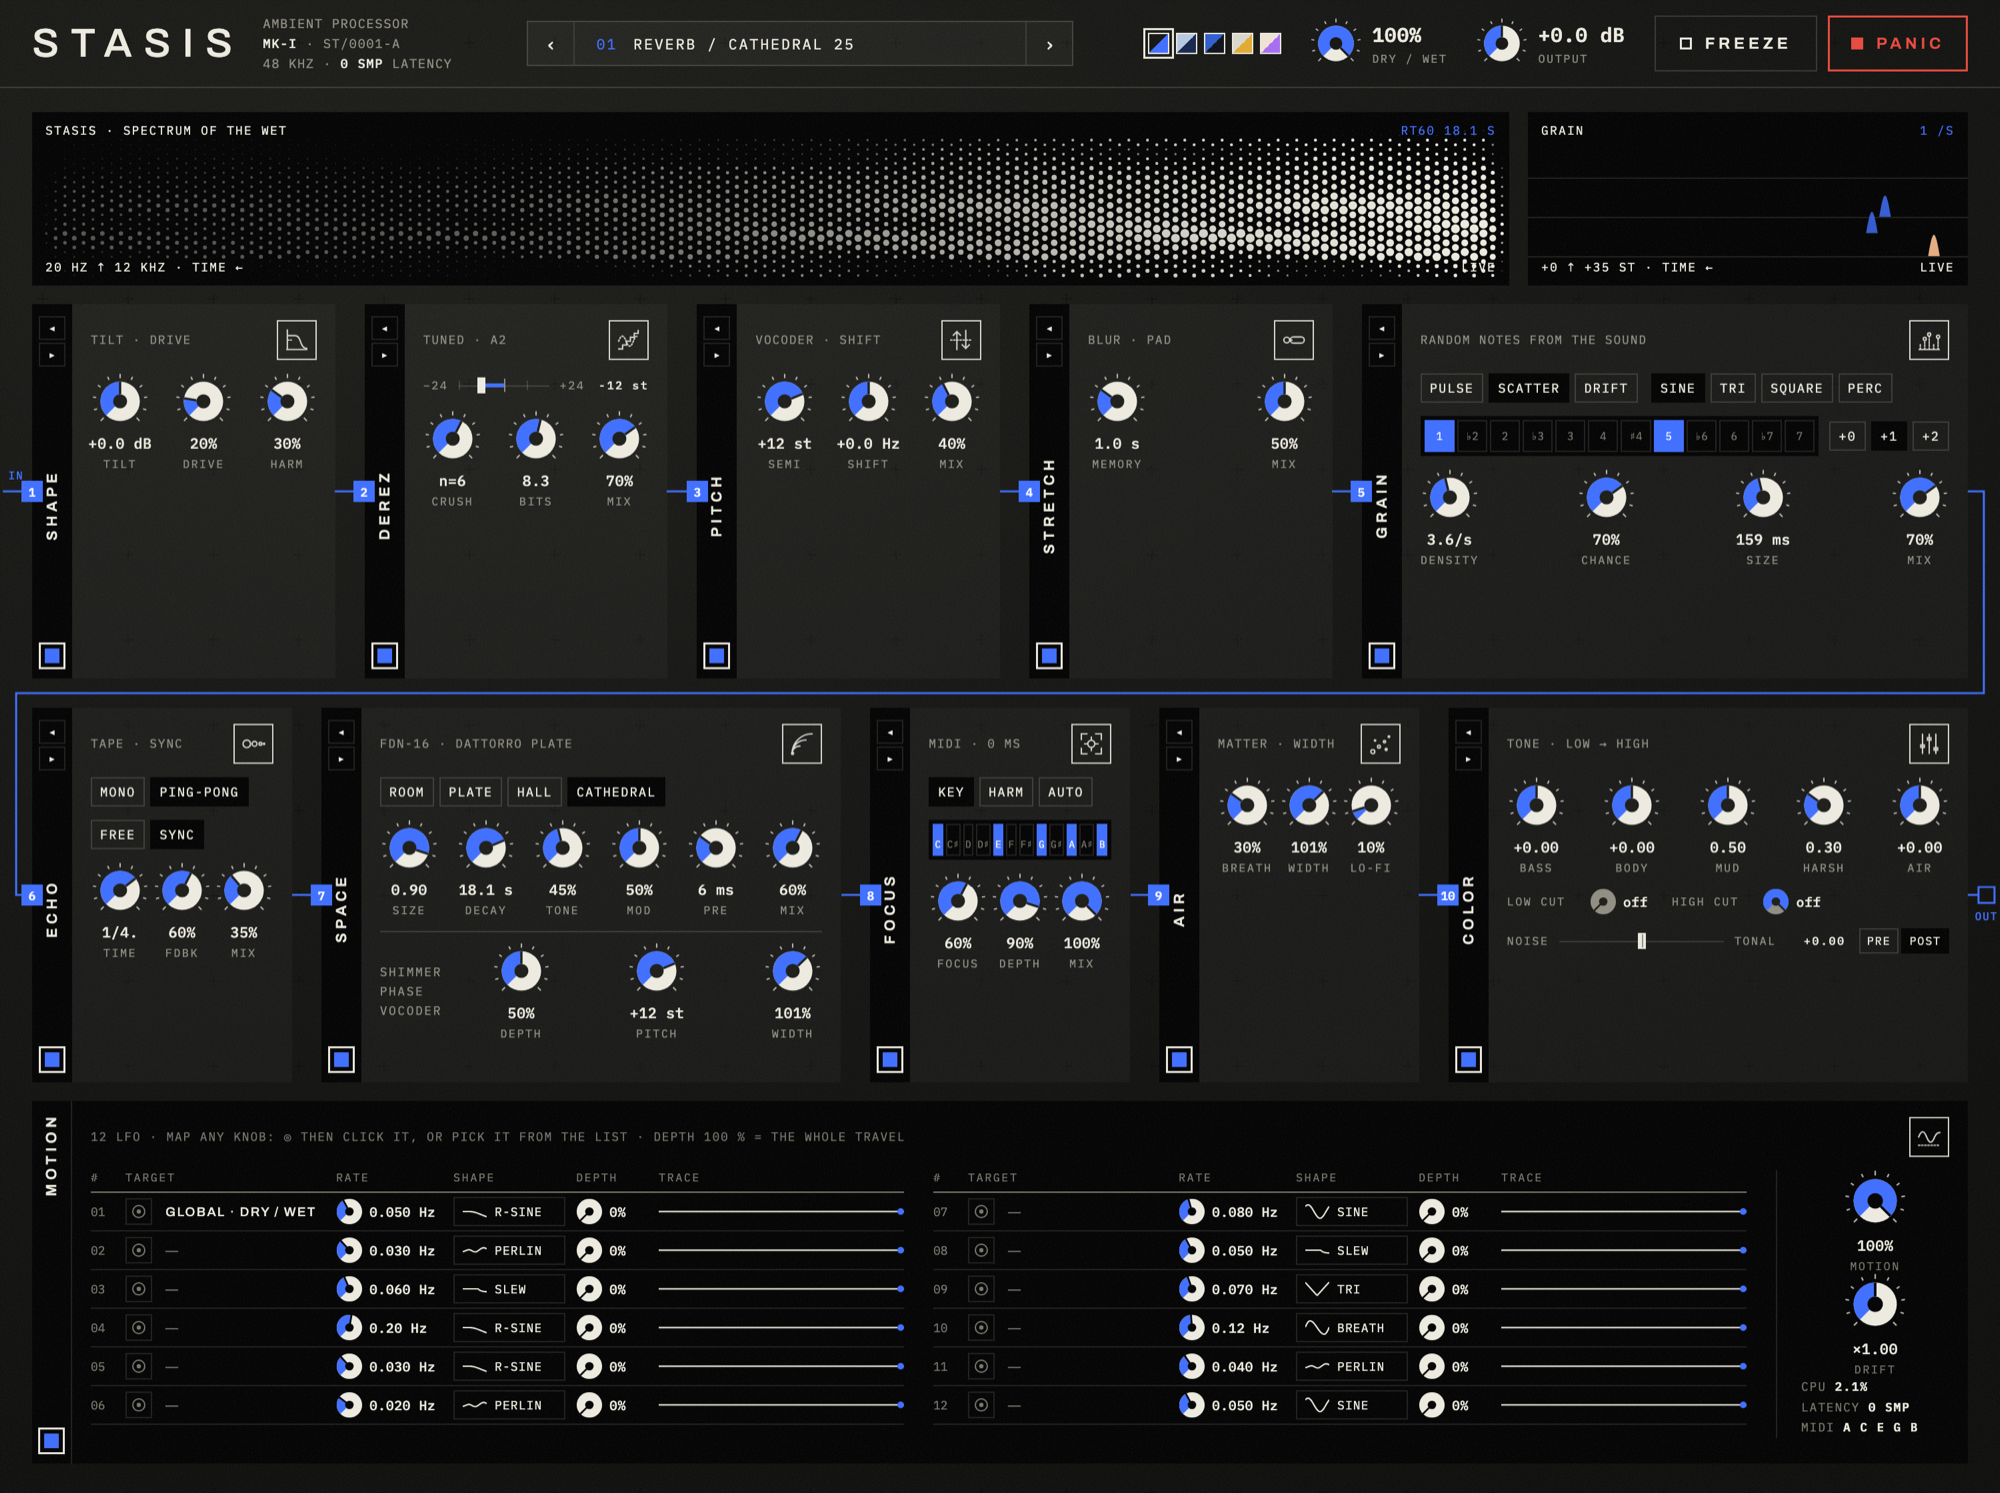
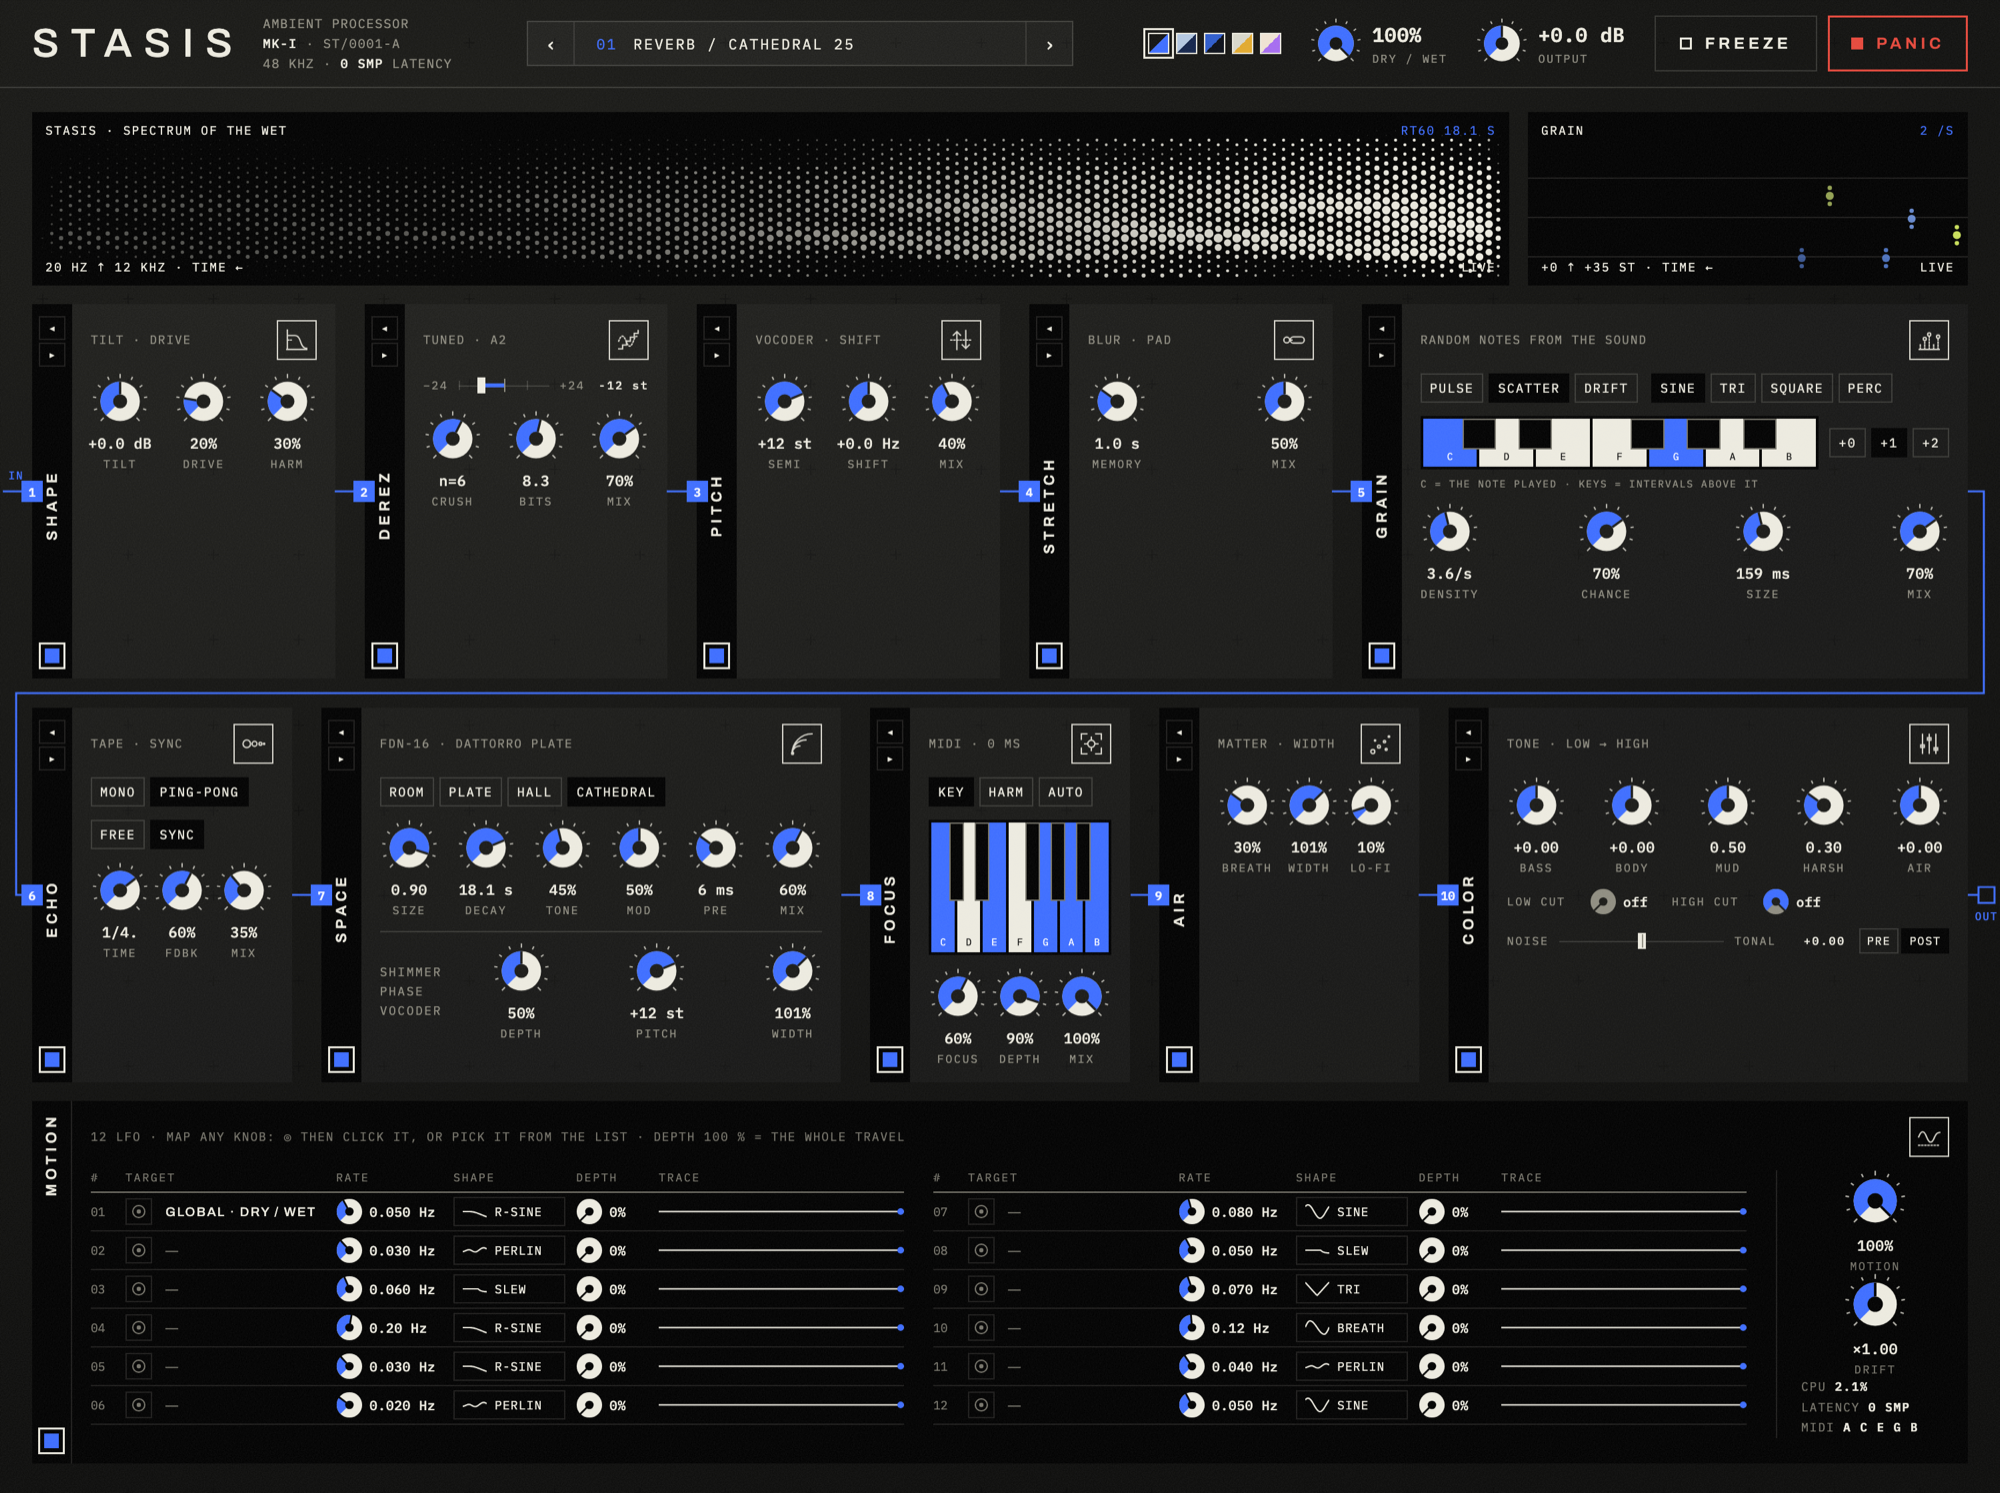
Piano keyboards for GRAIN and FOCUS, halftone colour grain view
- Reusable one-octave piano (white and black keys); GRAIN's allowed
  intervals (C = the note played) and FOCUS's followed notes use it
- Grain view: staggered halftone dots swelling with each grain's
  envelope, one colour per note

diff --git a/design/mockup.html b/design/mockup.html
@@ -189,8 +189,7 @@ header { display: grid; grid-template-columns: auto 1fr auto; align-items: cente
 /* GRAIN */
 .grain-modes { display: flex; gap: 10px; flex-wrap: wrap; }
 .grain-notes { display: grid; grid-template-columns: 1fr auto; gap: 8px; align-items: center; }
-.grain-notes .keys button { height: 24px; background: none; border: 1px solid var(--dark-line); color: var(--on-dark-muted); font: inherit; font-size: 8px; cursor: pointer; padding: 0; }
-.grain-notes .keys button[aria-pressed="true"] { background: var(--accent); color: var(--accent-ink); border-color: var(--accent); }
+.piano-caption { font-size: 7.5px; letter-spacing: .12em; color: var(--muted); margin-top: -4px; }
 .viz canvas { width: 100%; height: 100%; display: block; }
 .viz .hud { position: absolute; inset: 0; pointer-events: none; padding: 8px 10px; display: flex; flex-direction: column; justify-content: space-between; color: var(--on-dark); }
 .viz .hud div { display: flex; justify-content: space-between; font-size: 9px; font-weight: 400; letter-spacing: .12em; }
@@ -199,9 +198,16 @@ header { display: grid; grid-template-columns: auto 1fr auto; align-items: cente
 .sub .title { display: flex; justify-content: space-between; font-size: 9px; font-weight: 400; letter-spacing: .14em; color: var(--muted); }
 
 /* FOCUS keys */
-.keys { display: grid; grid-template-columns: repeat(12, 1fr); gap: 2px; background: var(--dark); padding: 3px; }
-.keys div { height: 24px; display: flex; align-items: flex-end; justify-content: center; font-size: 7.5px; padding-bottom: 3px; color: var(--on-dark-muted); border: 1px solid var(--dark-line); }
-.keys div.on { background: var(--accent); color: var(--accent-ink); border-color: var(--accent); }
+/* Piano octave: 7 white keys, 5 black keys on top. .on = lit (accent). */
+.piano { position: relative; height: 40px; display: flex; gap: 2px; padding: 2px; background: var(--dark); flex: 1; min-width: 0; }
+.piano .w { flex: 1; background: var(--on-dark); color: var(--dark); border: 0; display: flex; align-items: flex-end; justify-content: center;
+  font: inherit; font-size: 7.5px; padding: 0 0 3px; }
+.piano .b { position: absolute; top: 2px; height: 58%; width: calc((100% - 4px) / 7 * .6); background: var(--dark); border: 1px solid var(--on-dark-muted);
+  color: var(--on-dark-muted); font: inherit; font-size: 6.5px; display: flex; align-items: flex-end; justify-content: center; padding: 0 0 2px; z-index: 1; }
+.piano .w.on, .piano .b.on { background: var(--accent); color: var(--accent-ink); border-color: var(--accent); }
+.piano.clickable .w, .piano.clickable .b { cursor: pointer; }
+.piano.clickable .w:hover { background: color-mix(in srgb, var(--on-dark) 80%, var(--accent)); }
+.piano.clickable .w.on:hover { background: var(--accent); }
 
 /* DEREZ interval strip */
 .intervals { display: grid; grid-template-columns: repeat(5, 1fr); background: var(--dark); color: var(--on-dark); border: 1px solid var(--dark-line); }
@@ -405,7 +411,8 @@ const live = {
   status(s) {
     const names = ['C', 'C♯', 'D', 'D♯', 'E', 'F', 'F♯', 'G', 'G♯', 'A', 'A♯', 'B'];
     const on = names.filter((_, i) => s.classes & (1 << i));
-    document.querySelectorAll('.keys div').forEach((d, i) => d.classList.toggle('on', !!(s.classes & (1 << i))));
+    const fk = document.getElementById('focusKeys');
+    if (fk) for (let i = 0; i < 12; i++) fk.light(i, s.classes & (1 << i));
     const st = document.getElementById('status');
     if (st) st.innerHTML = `CPU <b>${s.cpu.toFixed(1)}%</b><br>LATENCY <b>0 SMP</b><br>MIDI <b>${on.join(' ') || '—'}</b>`;
     const sr = document.getElementById('srate');
@@ -518,6 +525,27 @@ function tonalRow() {
   el.append(cursor('NOISE', 'TONAL', 0, 'tonal'), where);
   return el;
 }
+// One octave of piano keys, C to B. labels: 12 strings; onToggle(i) makes it clickable.
+// Returns the element; el.light(i, on) lights a key.
+function piano(labels, onToggle) {
+  const el = document.createElement('div'); el.className = 'piano' + (onToggle ? ' clickable' : '');
+  const BLACK = { 1: 0, 3: 1, 6: 3, 8: 4, 10: 5 };  // black key → the white key it sits after
+  const keys = [];
+  for (let i = 0; i < 12; i++) {
+    const k = document.createElement(onToggle ? 'button' : 'div');
+    k.textContent = labels[i];
+    if (i in BLACK) { k.className = 'b'; k.style.left = `calc(2px + (100% - 4px) / 7 * ${BLACK[i] + 1} - (100% - 4px) / 7 * .3)`; }
+    else k.className = 'w';
+    if (onToggle) k.onclick = () => onToggle(i);
+    keys.push(k);
+  }
+  keys.filter(k => k.className === 'w').forEach(k => el.append(k));
+  keys.filter(k => k.className === 'b').forEach(k => el.append(k));
+  el.light = (i, on) => keys[i].classList.toggle('on', !!on);
+  return el;
+}
+const NOTE_NAMES = ['C', 'C♯', 'D', 'D♯', 'E', 'F', 'F♯', 'G', 'G♯', 'A', 'A♯', 'B'];
+
 function knobRow(list, opts) { const row = document.createElement('div'); row.className = 'knobs'; list.forEach(k => row.appendChild(knob(k, opts))); return row; }
 
 // ---------- live state driving the visual ----------
@@ -548,17 +576,16 @@ const MODS = {
             modes.append(seg(['Pulse', 'Scatter', 'Drift'], 1, null, 'grain_algo'), seg(['Sine', 'Tri', 'Square', 'Perc'], 0, null, 'grain_env'));
             // Allowed intervals above the source; the octave choice widens the range.
             const notes = document.createElement('div'); notes.className = 'grain-notes';
-            const keys = document.createElement('div'); keys.className = 'keys';
-            ['1', '♭2', '2', '♭3', '3', '4', '♯4', '5', '♭6', '6', '♭7', '7'].forEach((label, i) => {
-              const k = document.createElement('button'); k.textContent = label; k.title = `+${i} semitones`;
-              let on = i === 0 || i === 7;
-              const show = v => { on = !!v; k.setAttribute('aria-pressed', on); };
-              k.onclick = () => { show(!on); bridge.send('grain_n' + i, on); };
-              bridge.register('grain_n' + i, 'toggle', show); show(on);
-              keys.append(k);
+            // C = the note being played (unison), G = a fifth above, and so on.
+            const state = Array.from({ length: 12 }, (_, i) => i === 0 || i === 7);
+            const keys = piano(NOTE_NAMES.map((n, i) => [1, 3, 6, 8, 10].includes(i) ? '' : n.replace('♯', '')), i => {
+              state[i] = !state[i]; keys.light(i, state[i]); bridge.send('grain_n' + i, state[i]);
             });
+            state.forEach((on, i) => { keys.light(i, on); bridge.register('grain_n' + i, 'toggle', v => { state[i] = !!v; keys.light(i, state[i]); }); });
             notes.append(keys, seg(['+0', '+1', '+2'], 1, null, 'grain_octaves'));
-            b.append(modes, notes, knobRow([
+            const caption = document.createElement('div'); caption.className = 'piano-caption';
+            caption.textContent = 'C = THE NOTE PLAYED · KEYS = INTERVALS ABOVE IT';
+            b.append(modes, notes, caption, knobRow([
               { id: 'grain_density', l: 'Density', t: .45, f: t => (0.5 * Math.pow(80, t)).toFixed(1) + '/s' },
               { id: 'grain_chance', l: 'Chance', t: .7, f: pct },
               { id: 'grain_size', l: 'Size', t: .45, f: t => Math.round(20 * Math.pow(100, t)) + ' ms' },
@@ -576,9 +603,10 @@ const MODS = {
             const sync = seg(['Free', 'Sync'], 1, i => { const next = knobs(i === 1); row.replaceWith(next); row = next; }, 'echo_sync');
             b.append(modes, sync, row); } },
   focus:  { n: '07', name: 'FOCUS',   code: 'MIDI · 0 ms', build: b => {
-            const keys = document.createElement('div'); keys.className = 'keys';
-            ['C','C#','D','D#','E','F','F#','G','G#','A','A#','B'].forEach(k => { const d = document.createElement('div'); d.textContent = k.replace('#', '♯');
-              if (['C','E','G','A','B'].includes(k)) d.classList.add('on'); keys.appendChild(d); });
+            // The notes FOCUS is following (MIDI, or what AUTO hears).
+            const keys = piano(NOTE_NAMES.map(n => n.replace('♯', '')).map((n, i) => [1, 3, 6, 8, 10].includes(i) ? '' : n));
+            keys.id = 'focusKeys';
+            [0, 4, 7, 9, 11].forEach(i => keys.light(i, true));
             b.append(seg(['Key', 'Harm', 'Auto'], 0, null, 'focus_mode'), keys,
                      knobRow([{ id: 'focus_amount', l: 'Focus', t: .6, f: pct }, { id: 'focus_depth', l: 'Depth', t: .9, f: pct }, { id: 'focus_mix', l: 'Mix', t: 1, f: pct }])); } },
   air:    { n: '08', name: 'AIR',     code: 'Matter · width', build: b => b.append(knobRow([
@@ -1114,16 +1142,27 @@ function drawGrains(now) {
   [0, 12, 24].forEach(st => { ctx.beginPath(); ctx.moveTo(0, yOf(st) + .5); ctx.lineTo(W, yOf(st) + .5); ctx.stroke(); });  // octaves
   while (grains.length && now - grains[0].at > GRAIN_WINDOW + 4000) grains.shift();
   let recent = 0;
+  // Same language as the spectrum: round halftone dots on a staggered grid. Each grain
+  // is a short streak of dots swelling with its envelope; its colour is its note.
+  const STEP = 6;
   grains.forEach(g => {
     const age = now - g.at; if (age < 1000) recent++;
-    const w = Math.max(3, g.len * 1000 / GRAIN_WINDOW * W), x1 = W - age / GRAIN_WINDOW * W, x0 = x1 - w, y = yOf(g.st), h = 16;
-    if (x1 < 0) return;
+    const w = Math.max(STEP, g.len * 1000 / GRAIN_WINDOW * W), x1 = W - age / GRAIN_WINDOW * W, x0 = x1 - w, y = yOf(g.st);
+    if (x1 < -STEP) return;
     const shape = p => g.env === 0 ? Math.sin(Math.PI * p) : g.env === 1 ? 1 - Math.abs(2 * p - 1) : g.env === 2 ? 1 : Math.min(1, p / .03) * Math.pow(1 - p, 3);
-    ctx.globalAlpha = Math.max(.25, 1 - age / GRAIN_WINDOW);
-    ctx.fillStyle = Math.abs(g.pan) > .5 ? spark : acc;
-    ctx.beginPath(); ctx.moveTo(x0, y);
-    for (let i = 0; i <= 16; i++) ctx.lineTo(x0 + w * i / 16, y - h * shape(i / 16));
-    ctx.closePath(); ctx.fill();
+    const pc = ((Math.round(g.st) % 12) + 12) % 12;
+    ctx.fillStyle = `hsl(${(pc * 30 + 220) % 360} 70% ${62 + 6 * Math.floor(g.st / 12)}%)`;
+    ctx.globalAlpha = Math.max(.2, 1 - age / GRAIN_WINDOW);
+    for (let c = 0; c * STEP <= w; c++) {
+      const x = x0 + c * STEP, e = shape(Math.min(1, (c * STEP) / w));
+      if (e < .05) continue;
+      const stagger = c & 1 ? STEP * .5 : 0;  // staggered, as in the spectrum
+      for (const [dy, k] of [[0, 1], [-STEP, .55], [STEP, .55]]) {
+        const r = STEP * .55 * Math.sqrt(e) * k;
+        if (r < .4) continue;
+        ctx.beginPath(); ctx.arc(x, y + dy + stagger - STEP * .25, r, 0, Math.PI * 2); ctx.fill();
+      }
+    }
   });
   ctx.globalAlpha = 1;
   document.getElementById('grainRate').textContent = recent + ' /S';

diff --git a/README.md b/README.md
@@ -98,14 +98,14 @@ Rejoue de petits bouts de ce qui vient d'être joué, sous une enveloppe, à des
 |---|---|
 | `PULSE` / `SCATTER` / `DRIFT` | Hasard : horloge régulière (CHANCE saute des coups) ; écarts aléatoires (Poisson) ; vitesse qui dérive lentement (×0,25 à ×4) : grappes puis silences |
 | `SINE` / `TRI` / `SQUARE` / `PERC` | Enveloppe de chaque grain (SQUARE a des rampes de 2 %, sans clic ; PERC attaque vite et décroît) |
-| Intervalles `1 … 7` | Transpositions autorisées au-dessus du son source (1 = unisson, 5 = quinte…) |
+| Clavier (Do → Si) | Transpositions autorisées au-dessus du son joué : Do = unisson, Sol = quinte, etc. (touches blanches et noires comme un piano) |
 | `+0` / `+1` / `+2` | Octaves : l'ensemble choisi est répété 1, 2 ou 3 octaves plus haut. Ça élargit la tessiture, sans transposer le reste |
 | `DENSITY` | 0,5 à 40 grains par seconde |
 | `CHANCE` | Probabilité qu'un grain prévu joue vraiment |
 | `SIZE` | 20 ms à 2 s |
 | `MIX` | Dosage (à 100 % : seulement les notes) |
 
-Le petit écran **GRAIN**, en haut à droite, dessine chaque grain avec son enveloppe : la hauteur donne la transposition (lignes = octaves), la longueur sa durée. Mesuré sur un son continu à 220 Hz (unisson + quinte, +1 octave) : 66 % de silence entre les notes, énergie sur 220 / 330 / 440 / 660 Hz, une note non autorisée 50 dB plus bas.
+Le petit écran **GRAIN**, en haut à droite, dessine chaque grain en points de trame (comme le spectre) qui gonflent avec son enveloppe : la hauteur donne la transposition (lignes = octaves), la longueur sa durée, la couleur sa note. Mesuré sur un son continu à 220 Hz (unisson + quinte, +1 octave) : 66 % de silence entre les notes, énergie sur 220 / 330 / 440 / 660 Hz, une note non autorisée 50 dB plus bas.
 
 ### 05 · ECHO — écho à bande
 Saturation (tanh anti-repliement), filtres de bande et souffle dans la boucle, sans wow ni flutter : les répétitions restent justes. Les changements de temps glissent comme une bande qui change de vitesse.
